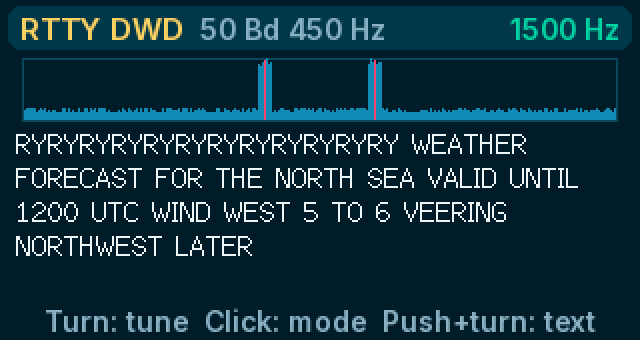
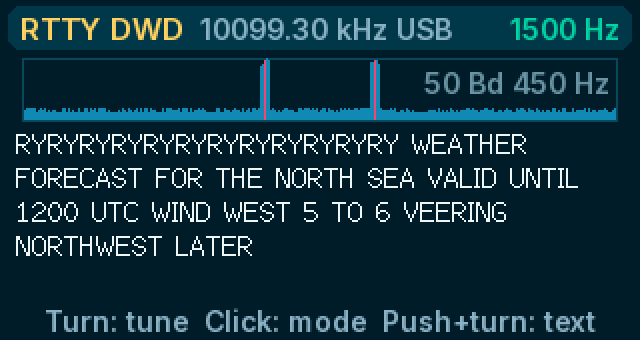
Digital page: the header shows the frequency the radio is tuned to; speed and shift in the spectrum's corner

diff --git a/ats-mini/DigiPage.cpp b/ats-mini/DigiPage.cpp
@@ -397,6 +397,13 @@ bool digiWebState(uint32_t *seen, String &j)
   j = "{\"dg\":{\"m\":\"";
   j += modeName[mode];
   if(mode == DM_NAVTEX) { j += ' '; j += navCh[nav].name; }
+  else
+  {
+    // The frequency the radio is tuned to, as in the page's header
+    char f[24];
+    snprintf(f, sizeof(f), " %lu.%02lu kHz", (unsigned long)(currentFrequency / 1000), (unsigned long)(currentFrequency % 1000 / 10));
+    j += f;
+  }
   j += "\",\"n\":"; j += textLog.total;
   if(mode == DM_NAVTEX && navtex && navtex->synced) j += ",\"s\":1";
   j += ",\"c\":"; j += found ? (int)centre : 0;
@@ -627,14 +634,18 @@ void drawDigiPage()
   int maxTop = lineCount > READ_ROWS ? lineCount - READ_ROWS : 0;
   if(reading) { topLine = constrain(topLine + turned, 0, maxTop); turned = 0; }
 
-  // Header: mode, its settings, the signal's audio frequency
+  // Header: mode, the frequency the radio is tuned to, the signal's audio
+  // frequency. The speed and shift stood here; the page did not say where the
+  // radio was tuned (Mohammad, 22 Nov), so they moved into the spectrum.
   spr.fillRoundRect(4, 3, 312, 22, 6, DG_RGB(0x073A4B));
   spr.setTextDatum(ML_DATUM);
   spr.setTextColor(DG_RGB(0xFFD167));
   spr.drawString(modeName[mode], 10, 14, uiFont(false));
   spr.setTextColor(DG_RGB(0x8FB3C0));
-  // NAVTEX: its channel in place of the speed and shift, which never change
-  snprintf(line, sizeof(line), "%s", mode == DM_NAVTEX ? navCh[nav].name : modeInfo[mode]);
+  // NAVTEX: its channel, which the page tunes 1.5 kHz lower by itself
+  if(mode == DM_NAVTEX) snprintf(line, sizeof(line), "%s", navCh[nav].name);
+  else snprintf(line, sizeof(line), reading ? "%lu.%02lu kHz" : "%lu.%02lu kHz USB",
+                (unsigned long)(currentFrequency / 1000), (unsigned long)(currentFrequency % 1000 / 10));
   spr.drawString(line, 10 + spr.textWidth(modeName[mode], uiFont(false)) + 8, 14, uiFont(true));
   spr.setTextDatum(MR_DATUM);
   bool sync = mode == DM_NAVTEX && navtex && navtex->synced;
@@ -691,6 +702,10 @@ void drawDigiPage()
   float half = mode == DM_DWD ? 225 : mode == DM_PSK31 ? 0 : 85;
   if(half) { spr.drawFastVLine(hzX(centre - half), sy, sh, DG_RGB(0xF04770)); spr.drawFastVLine(hzX(centre + half), sy, sh, DG_RGB(0xF04770)); }
   else spr.drawFastVLine(hzX(centre), sy, sh, DG_RGB(0xF04770));
+  // What the mode expects, small, in the corner of the spectrum
+  spr.setTextDatum(TR_DATUM);
+  spr.setTextColor(DG_RGB(0x6F97A5));
+  spr.drawString(modeInfo[mode], sx + SPEC_W - 3, sy + 2, uiFont(true));
 
   // WEFAX: the picture, newest line at the bottom
   if(mode == DM_WEFAX && fax && lock)

diff --git a/changelog/+digital-modes.added.md b/changelog/+digital-modes.added.md
@@ -1,1 +1,1 @@
-**Digital** (**Menu → Ham & SWL → Digital**): RTTY (amateur 45.45 baud / 170 Hz and DWD weather 50 baud / 450 Hz), NAVTEX on 518 kHz and PSK31, decoded on the radio with a spectrum of the band. The decoder finds the signal by itself; RTTY reads normal and reversed stations alike. Click for the next mode, turn to tune, press to leave. Needs the V4B board, as the FT8 page.
+**Digital** (**Menu → Ham & SWL → Digital**): RTTY (amateur 45.45 baud / 170 Hz and DWD weather 50 baud / 450 Hz), NAVTEX on 518 kHz and PSK31, decoded on the radio with a spectrum of the band. The header shows the frequency the radio is tuned to. The decoder finds the signal by itself; RTTY reads normal and reversed stations alike. Click for the next mode, turn to tune, press to leave. Needs the V4B board, as the FT8 page.
